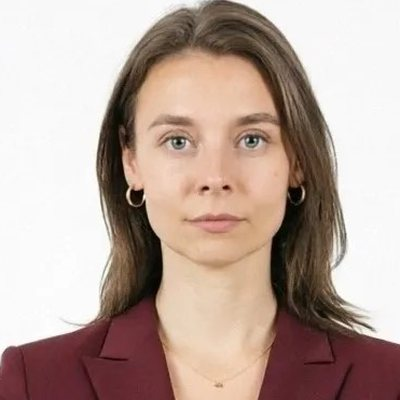
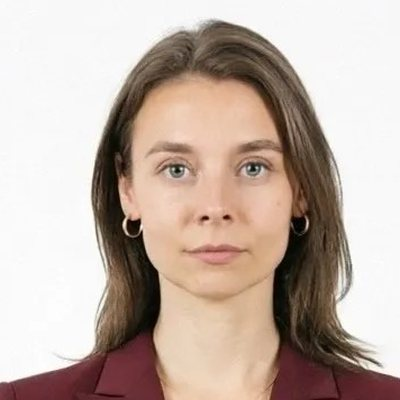
Спикеры: крупнее кружки, лица по центру
Claude-Session: https://claude.ai/code/session_01D9n6SuWGW3kjWxzi2ecQZ2

diff --git a/index.html b/index.html
@@ -237,21 +237,21 @@
   }
   .speaker-card:hover { border-color: #F5B800; transform: translateY(-4px); box-shadow: 0 16px 40px rgba(0,0,0,0.08); }
   .speaker-avatar {
-    width: 72px; height: 72px;
+    width: 140px; height: 140px;
     background: #F5B800;
     border-radius: 50%;
     display: flex;
     align-items: center;
     justify-content: center;
     font-weight: 800;
-    font-size: 24px;
+    font-size: 44px;
     color: #0A0A0A;
-    margin-bottom: 24px;
+    margin-bottom: 28px;
     letter-spacing: -0.02em;
     overflow: hidden;
   }
   .speaker-avatar img { width: 100%; height: 100%; object-fit: cover; display: block; }
-  .speaker-card:has(img) .speaker-avatar { width: 96px; height: 96px; background: #EEE; }
+  .speaker-card:has(img) .speaker-avatar { background: #EEE; }
   .speaker-name { font-size: 20px; font-weight: 700; margin-bottom: 4px; letter-spacing: -0.02em; color: #0A0A0A; }
   .speaker-company { font-size: 14px; color: #888; margin-bottom: 16px; font-weight: 600; }
   .speaker-desc { font-size: 15px; color: #555; line-height: 1.6; }
@@ -604,19 +604,19 @@
     <h2 class="reveal">Спикеры</h2>
     <div class="speakers-grid">
       <div class="speaker-card reveal">
-        <div class="speaker-avatar"><img src="img/speakers/fetisov.jpg" alt="Артём Фетисов" loading="lazy" width="96" height="96"></div>
+        <div class="speaker-avatar"><img src="img/speakers/fetisov.jpg" alt="Артём Фетисов" loading="lazy" width="140" height="140"></div>
         <div class="speaker-name">Артём Фетисов</div>
         <div class="speaker-company">«ВСЕ | МЕБЕЛЬ» / «Цифровые решения»</div>
         <div class="speaker-desc">Покажет, как сообщество закрывает задачи производителя.</div>
       </div>
       <div class="speaker-card reveal">
-        <div class="speaker-avatar"><img src="img/speakers/fedosov.jpg" alt="Игорь Федосов" loading="lazy" width="96" height="96"></div>
+        <div class="speaker-avatar"><img src="img/speakers/fedosov.jpg" alt="Игорь Федосов" loading="lazy" width="140" height="140"></div>
         <div class="speaker-name">Игорь Федосов</div>
         <div class="speaker-company">ЦРПП</div>
         <div class="speaker-desc">Расскажет, как получить господдержку и выйти на биржу заказов.</div>
       </div>
       <div class="speaker-card reveal">
-        <div class="speaker-avatar"><img src="img/speakers/frolov.jpg" alt="Иван Фролов" loading="lazy" width="96" height="96"></div>
+        <div class="speaker-avatar"><img src="img/speakers/frolov.jpg" alt="Иван Фролов" loading="lazy" width="140" height="140"></div>
         <div class="speaker-name">Иван Фролов</div>
         <div class="speaker-company">BlastBit</div>
         <div class="speaker-desc">Даст карту рабочих каналов с прогнозом на 2027.</div>
@@ -628,19 +628,19 @@
         <div class="speaker-desc">Покажет точки потери лидов в звонках.</div>
       </div>
       <div class="speaker-card reveal">
-        <div class="speaker-avatar"><img src="img/speakers/blau.jpg" alt="Валерия Блау" loading="lazy" width="96" height="96"></div>
+        <div class="speaker-avatar"><img src="img/speakers/blau.jpg" alt="Валерия Блау" loading="lazy" width="140" height="140"></div>
         <div class="speaker-name">Валерия Блау</div>
         <div class="speaker-company">«БлауПроф»</div>
         <div class="speaker-desc">Объяснит, как закрывать вакансии в цех.</div>
       </div>
       <div class="speaker-card reveal">
-        <div class="speaker-avatar"><img src="img/speakers/bartev.jpg" alt="Александр Бартев" loading="lazy" width="96" height="96"></div>
+        <div class="speaker-avatar"><img src="img/speakers/bartev.jpg" alt="Александр Бартев" loading="lazy" width="140" height="140"></div>
         <div class="speaker-name">Александр Бартев</div>
         <div class="speaker-company">«Омега Дизайн»</div>
         <div class="speaker-desc">Покажет, как алюминий открывает премиум.</div>
       </div>
       <div class="speaker-card reveal">
-        <div class="speaker-avatar"><img src="img/speakers/levi.jpg" alt="Валерия Леви" loading="lazy" width="96" height="96"></div>
+        <div class="speaker-avatar"><img src="img/speakers/levi.jpg" alt="Валерия Леви" loading="lazy" width="140" height="140"></div>
         <div class="speaker-name">Валерия Леви</div>
         <div class="speaker-company">«ЛЕВИ | БЮРО»</div>
         <div class="speaker-desc">Разберёт реальный конфликт производителя и клиента.</div>
